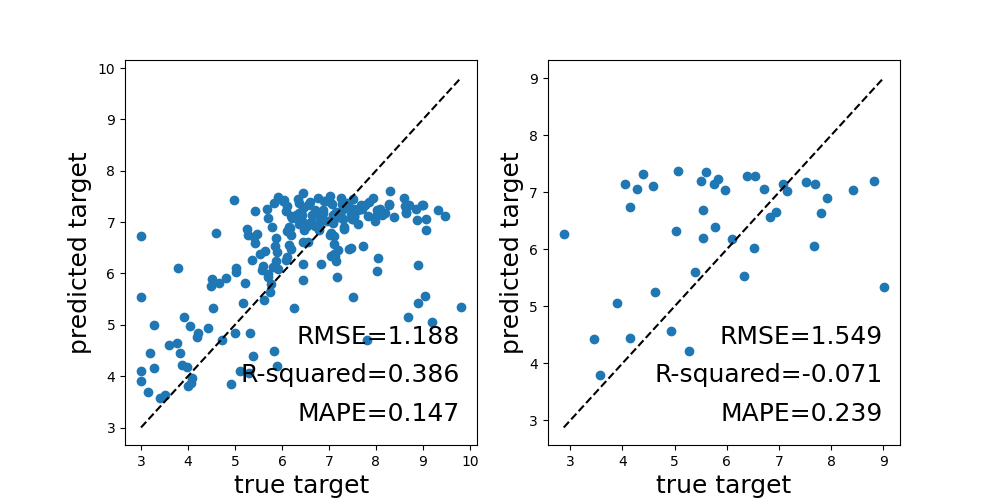
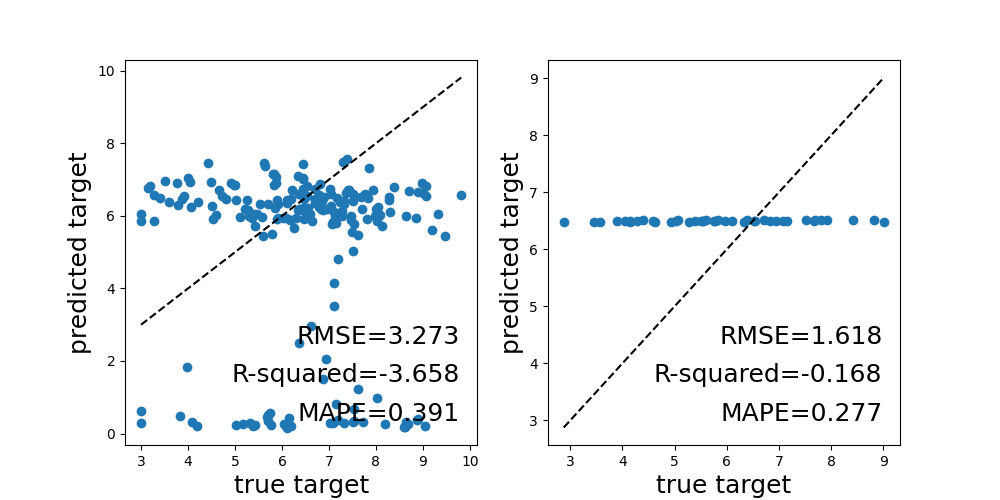
mean pooling before transformation

diff --git a/toy_nnet/model.py b/toy_nnet/model.py
@@ -14,7 +14,7 @@ import torch.nn.functional as F
 
 class MIL_LSTM(nn.Module):
     #https://www.deeplearningwizard.com/deep_learning/practical_pytorch/pytorch_lstm_neuralnetwork/
-    def __init__(self, input_dim, hidden_dim, layer_dim, output_dim):
+    def __init__(self, input_dim, hidden_dim, hidden_dim2,layer_dim, output_dim):
         super(MIL_LSTM, self).__init__()
         # Hidden dimensions
         self.hidden_dim = hidden_dim
@@ -28,7 +28,8 @@ class MIL_LSTM(nn.Module):
         self.lstm = nn.LSTM(input_dim, hidden_dim, layer_dim, batch_first=True)
 
         # Readout layer
-        self.fc = nn.Linear(hidden_dim, output_dim)
+        self.fc = nn.Linear(hidden_dim, hidden_dim2)
+        self.fc2 = nn.Linear(hidden_dim2, output_dim)
 
     def forward(self, x):
         # Initialize hidden state with zeros
@@ -45,7 +46,11 @@ class MIL_LSTM(nn.Module):
         # Index hidden state of last time step
         # out.size() --> 100, 28, 100
         # out[:, -1, :] --> 100, 100 --> just want last time step hidden states!
-        out = self.fc(out[:, -1, :])
+        out = out[:, -1, :].mean(axis=0)
+
+        out = self.fc(out)
+        out = nn.functional.relu(out)
+        out = self.fc2(out)
         # out.size() --> 100, 10
         return out
 

diff --git a/toy_nnet/main.py b/toy_nnet/main.py
@@ -50,7 +50,7 @@ test_loader = data_utils.DataLoader(NdviDataset(data_file=root_dir+'input_list_R
 print('Init Model')
 if args.model=='LSTM':
     #model = MIL_LSTM(input_size=2, output_size=1, hidden_dim=10,n_layers=1)
-    model = MIL_LSTM(input_dim=2, output_dim=1, hidden_dim=10, layer_dim=1)
+    model = MIL_LSTM(input_dim=2, output_dim=1, hidden_dim=10,hidden_dim2=10, layer_dim=1)
 elif args.model=='RNN':
     model = MIL_RNN(input_dim=2, hidden_dim=10, output_dim=1)
 
